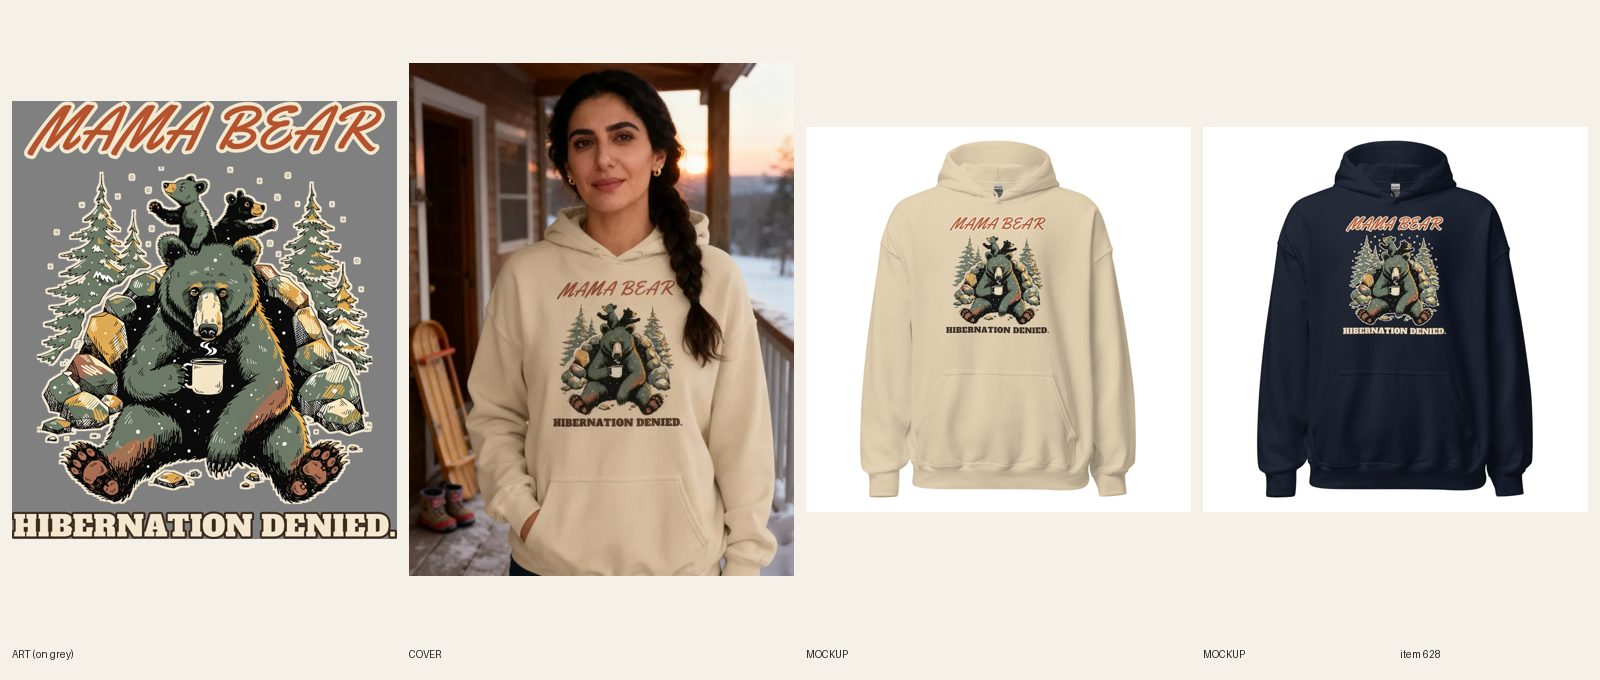
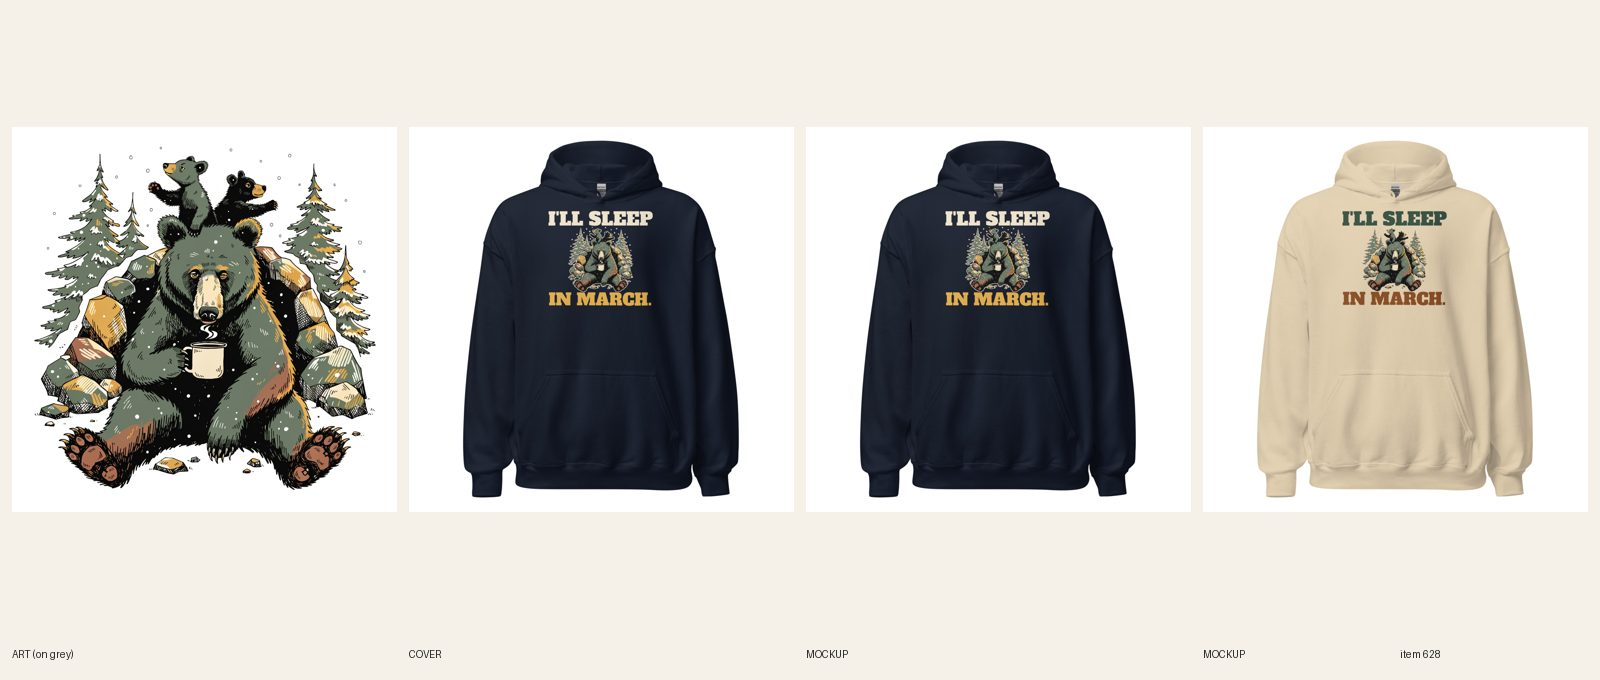
[E] review 628 redid #628 Women's Bear hoodie (line + type: I'LL SLEEP / IN MARCH., same mama-bear art, Alfa Slab One, Navy + Sand files, 12/12 synced). REVIEW. fal $0.

diff --git a/docs/pipeline/628-bear-hoodie-mama-bear-hibernation-denied.md b/docs/pipeline/628-bear-hoodie-mama-bear-hibernation-denied.md
@@ -1,4 +1,4 @@
-status: BUILDING [E] 2026-10-20 08:33
+status: REVIEW
 lane: E
 type: new
 id: 628
@@ -31,3 +31,4 @@ kd: 32
 - 2026-10-18 15:36 UTC builder [E]: sync 12/12 confirmed. REVIEW.
 - 2026-10-18 16:16 UTC director: approved from docs/review/628.jpg. ACTIVE + Online Store/Headless/Google & YouTube, audit --handle PASS 0 warn. LIVE.
 - 2026-10-18 17:22 UTC director: QUALITY RESET grade C (new line + type), REDO. The product stays ACTIVE (same handle, URL, title keyword). 1. Line (R3.12, quality-reset 'Lines'): "Mama Bear / Hibernation Denied.": Noun + mild aside; thin script headline. Write 5 candidates, keep the one a stranger laughs at in 3 seconds without backstory; kill lines that only describe the picture; if none of the 5 is funny, PARK it. 2. Quality reset type bar (docs/backlog/quality-reset.md, 'The new bar'): headline at least 90% of the art width, heavy, colors pulled from the art; second line at least 45% of the headline's height, never a thin script on a dark or mid garment; use the lettering as a shape (arch, stacked lockup, words breaking into the art), not a plain bar above and a script line below; no font used on more than 1 in 6 of the last 30 designs. 3. Keep the art if it carries the new line, else one new illustration (R4/R5). New print means a new cover per R6.10, copy line one rewritten for the new joke (R8.3), and a fresh review sheet (R7.7). While quality-reset.md says PAUSED, only lane A builds, and only the samples step 2 names.
+- 2026-10-20 08:46 UTC builder [E]: REDO 628 (C grade, line + type) done in place (stays ACTIVE, handle unchanged; title now Women's Bear – I'll Sleep In March Hoodie). 5 candidates: 'Mama Bear, Hibernation Denied' (old); 'I'LL SLEEP / IN MARCH.'; 'COFFEE. CUBS. NO HIBERNATION.'; 'MAMA BEAR DOESN'T HIBERNATE.'; 'DO NOT POKE THE MAMA.'. Kept I'LL SLEEP / IN MARCH. (deadpan mom answer, cubs on her head prove it). Same art, no fal, $0. Alfa Slab One, both lines full print width. Navy file cream + mustard with thin cream halo; Sand file deep green + rust brown, solid dark fill (light file logged for Sand). Pullover: FW 1500 TOP 0, 9.1 in tall (under the pouch seam). Verified 12/12 on the new file per color, back logo kept. Fronts + back alt replaced in place, title/SEO/copy/FAQs rewritten. Phone-size read OK. Cover: AI cover shows old words; handle added to retired-covers.json. audit PASS 0 warn. Sheet docs/review/628.jpg.

diff --git a/docs/intake-log.md b/docs/intake-log.md
@@ -1,4 +1,5 @@
 2026-10-20 08:47 UTC — [D] Director run: inbox nothing new. 6 LIVE (cap): #443 #552 #554 #561 #635 #382, audit PASS (#554 #561 SEO titles added). Reviewed 16: 12 approved and held (#387 #389 retitled), 4 REDO (#397 stock line, #507 geyser still a rectangle, #509 shield scene, #610 stock Etsy line). Builder card 7j (no more SORRY/BOOKED lines). READY: A 13, B 12, C 12, E 12. No Telegram (digest not due, nothing for Sam). Lock released.
+2026-10-20 08:46 UTC — [E] Builder run: redid #628 Women's Bear hoodie (line + type: I'LL SLEEP / IN MARCH., same mama-bear art, Alfa Slab One, Navy + Sand files, 12/12 synced). REVIEW. fal $0.
 2026-10-20 08:33 UTC — [E] Builder run: redid #613 Men's Bowling tee (line + type: THE PINS / STARTED IT., same stern-bowler art, Alfa Slab One, cream file on 5 dark colors + dark-ink file on 3 light colors, 56/56 synced). REVIEW. fal $0.
 2026-10-20 08:40 UTC — [A] Builder run: redid #417 Men's Tiger oversized hoodie (line+type: WAKE ME UP AND / FIND OUT., same sleeping tiger art, Bevan full width, FW 1500 TOP 0, Dust file 1090259057 / Navy file 1090259076, 12/12 relinked, 2 fronts replaced in place, copy updated, plain product shot). REVIEW. fal $0.
 2026-10-20 08:32 UTC — [A] Builder run: redid #408 Unisex Shark oversized hoodie (line+type: I'M NOT AGGRESSIVE. / JUST ENTHUSIASTIC., same great white art, Alfa Slab full width, FW 1500 TOP 0, Dust file 1090256703 / Navy file 1090256712, 12/12 relinked, 2 fronts replaced in place, copy updated, plain product shot). REVIEW. fal $0.
